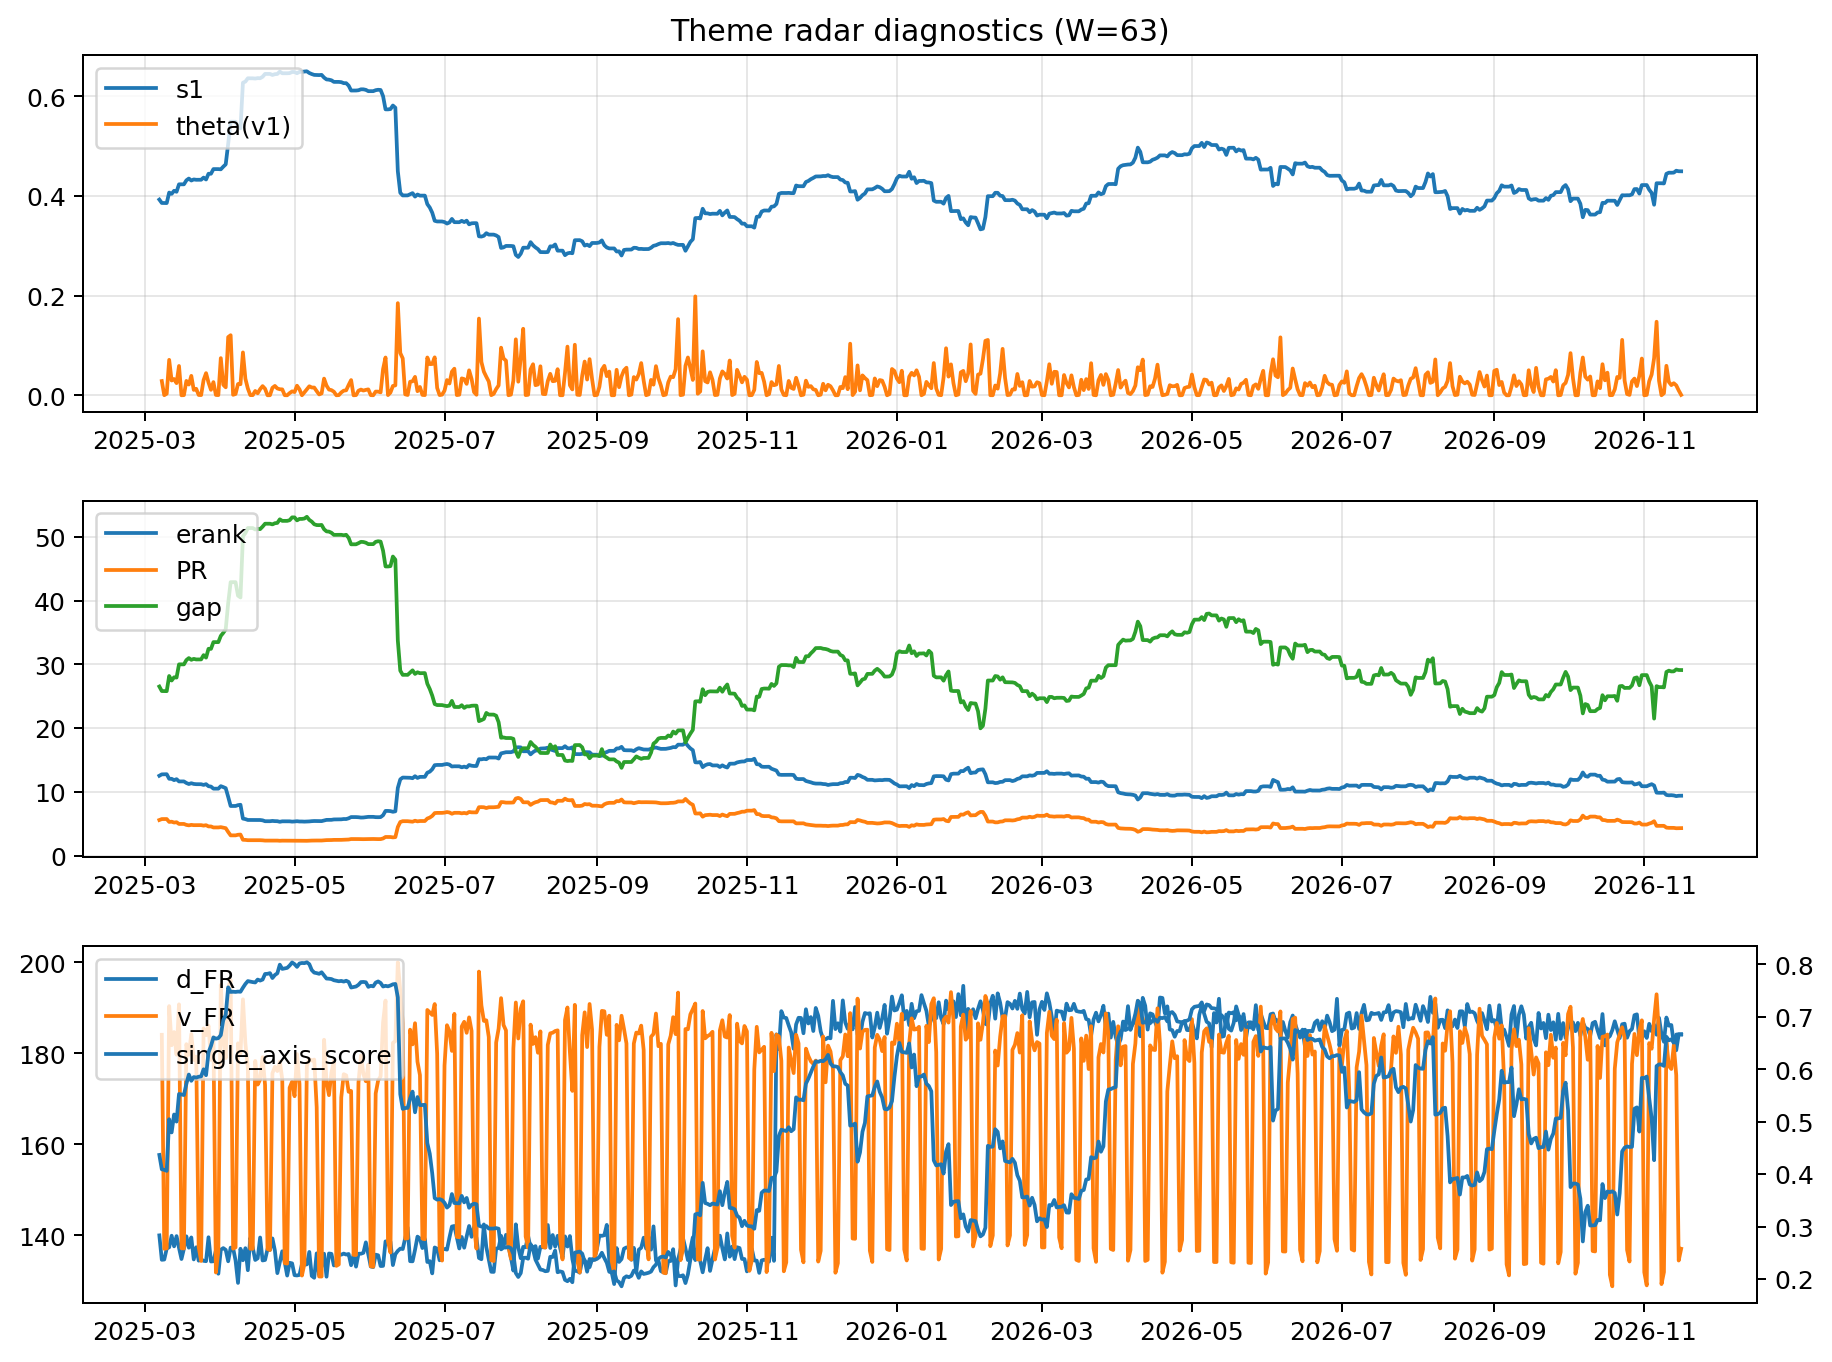
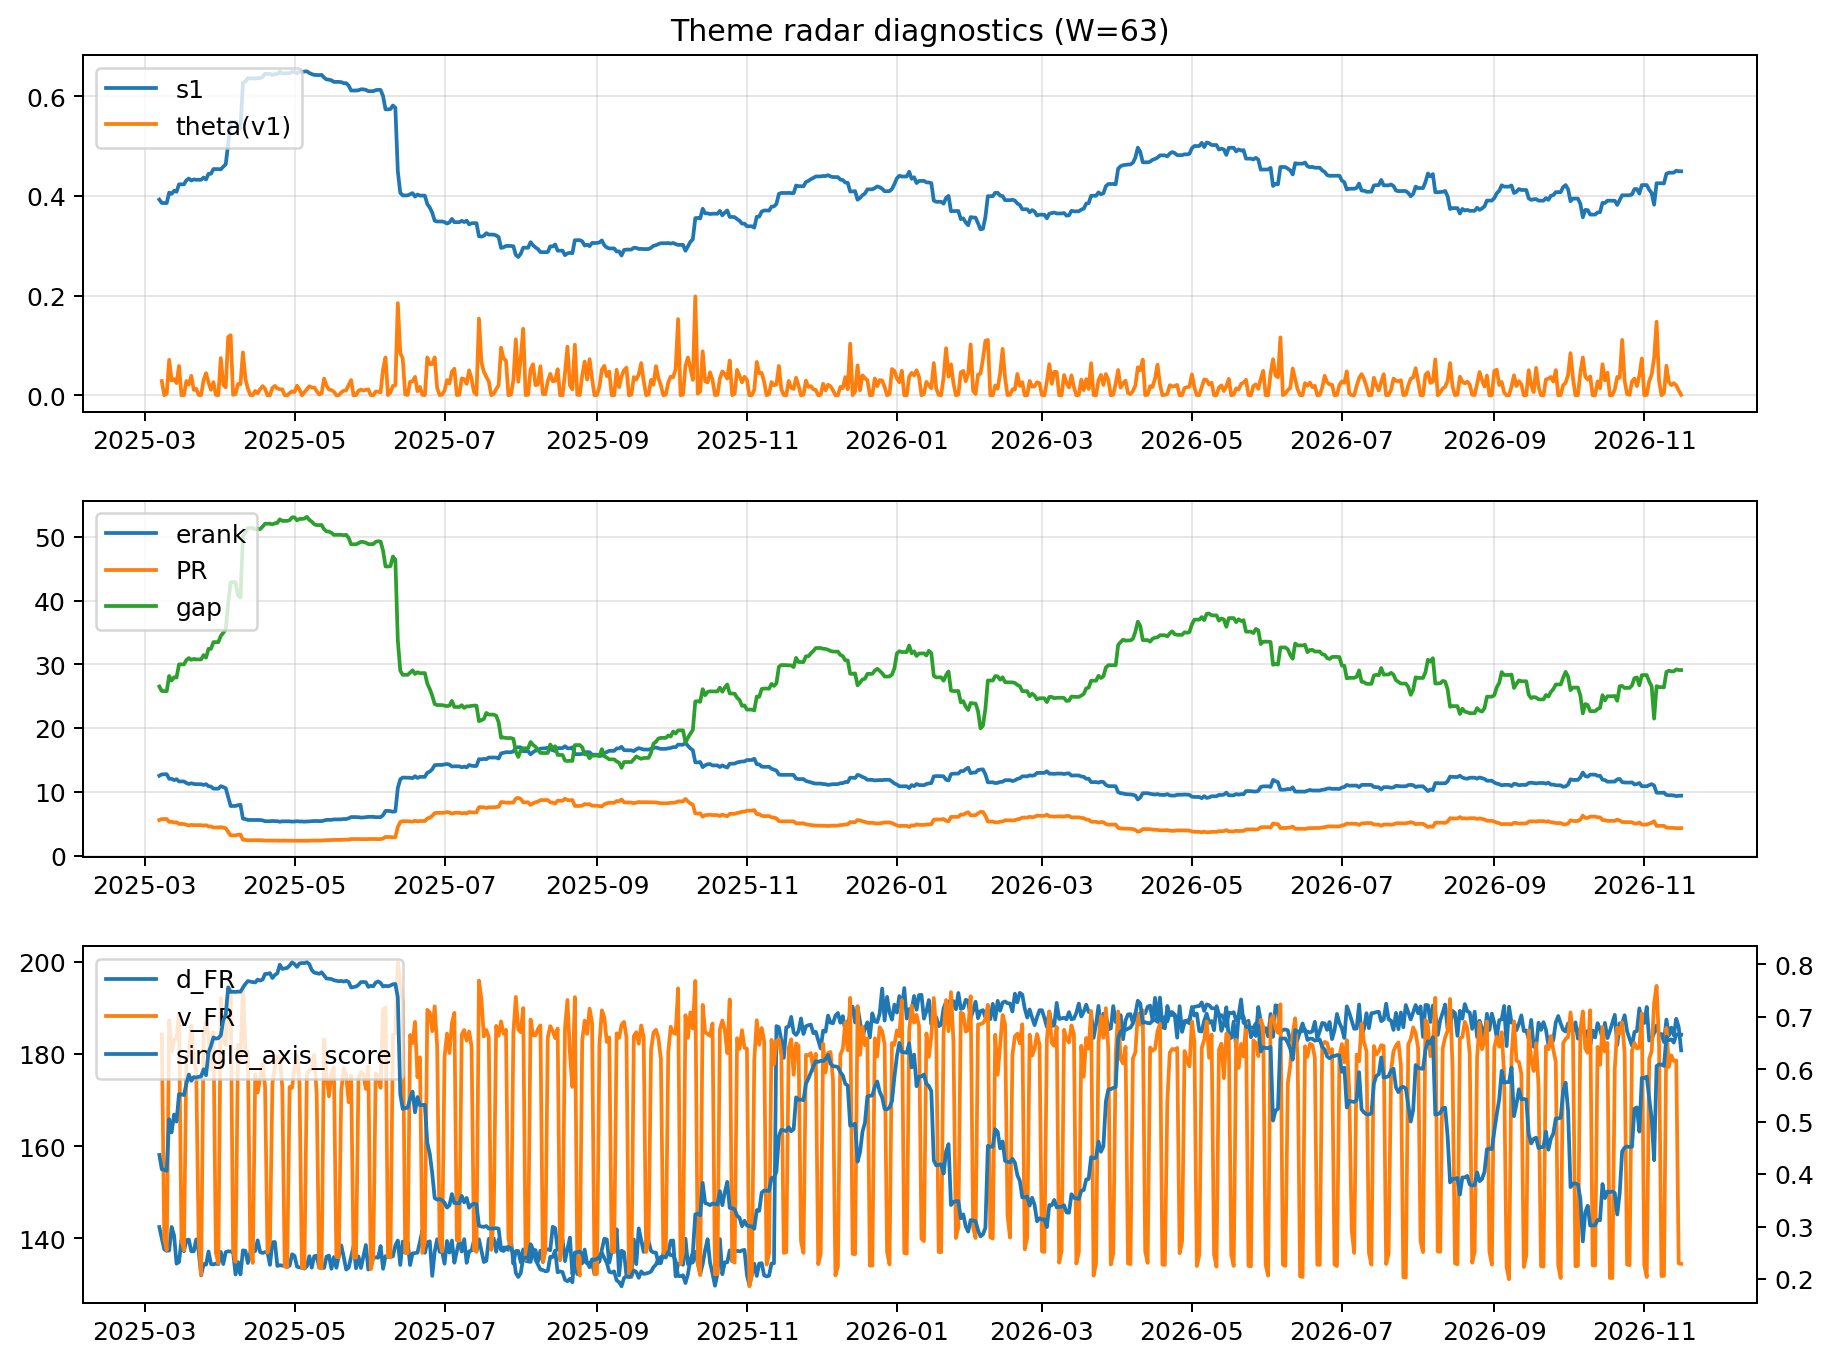
log: 2026-11-16 | sha256:1fccdb4b9e052f2ad712959671bac33f2dda15274715ce681d704cf9612c82fb

diff --git a/logs/2026-11-16.md b/logs/2026-11-16.md
@@ -3,43 +3,43 @@
 ![diagnostic W63](../assets/diagnostic/2026-11-16_W63.png)
 
 ## Leaders (v1) — W=63
-- **Nuclear_Uranium** (0.0846609562730994)
-- Semis (0.0728606609942714)
-- Genomics_Bio (0.0600351053870628)
+- **Nuclear_Uranium** (0.0846609558318685)
+- Semis (0.0728606600901705)
+- Genomics_Bio (0.0600351059429402)
 
 ## Challengers — W=63
-**v2:** Rates (0.0992291897089218), Metals (0.0749344984166271), Semis (0.0679664411971099)
-**v3:** MegaCap_AI (0.0818250859088636), Crypto (0.0795046115018373), Rates (0.0761901589716158)
+**v2:** Rates (0.099229037567165), Metals (0.0749345394594459), Semis (0.0679664562301577)
+**v3:** MegaCap_AI (0.0818250722937275), Crypto (0.079504671658838), Rates (0.0761906476063848)
 
 ## Migration (20D slope) — W=63
 **Top risers:**
-- axis_Genomics_Bio: 0.0008060742077059
-- axis_Software_Cloud: 0.0004333743814465
-- axis_Cyber: 0.0003864467015739
-- axis_Drones_Autonomy: 0.0003621812130722
-- axis_Defense: 0.0003086374333753
-- axis_Semis: 0.0002553561064155
-- axis_Nuclear_Uranium: 0.0002430550882775
-- axis_Sector_Fin: 0.0002300339379297
-- axis_Sector_Comm: 0.0001661995705224
-- axis_Sector_Materials: 0.0001641389653078
+- axis_Genomics_Bio: 0.0008060757850602
+- axis_Software_Cloud: 0.000433375148124
+- axis_Cyber: 0.0003864473300354
+- axis_Drones_Autonomy: 0.0003621815811238
+- axis_Defense: 0.0003086376957887
+- axis_Semis: 0.0002553588119548
+- axis_Nuclear_Uranium: 0.000243057072236
+- axis_Sector_Fin: 0.0002300337087096
+- axis_Sector_Comm: 0.0001661997120103
+- axis_Sector_Materials: 0.0001641388053396
 
 **Top fallers:**
-- axis_Critical_Minerals: -0.0001545386636213
-- axis_Clean_Solar: -0.0001761811750716
-- axis_USD: -0.0001809445368533
-- axis_Credit: -0.0002247153157402
-- axis_Commodities: -0.0002477768090314
-- axis_Miners: -0.0002870706172561
-- axis_Sector_ConsStap: -0.0003041437436625
-- axis_Sector_Energy: -0.0003460745845628
-- axis_Rates: -0.0003666818015889
-- axis_Metals: -0.0010946383939698
+- axis_Critical_Minerals: -0.000154537404366
+- axis_Clean_Solar: -0.0001761808381762
+- axis_USD: -0.0001809446157011
+- axis_Credit: -0.0002247159322801
+- axis_Commodities: -0.0002477763249924
+- axis_Miners: -0.000287070106738
+- axis_Sector_ConsStap: -0.0003041433311324
+- axis_Sector_Energy: -0.0003460742264196
+- axis_Rates: -0.000366707304327
+- axis_Metals: -0.0010946377694415
 
 ## Risk line (W=63)
-- s1: 0.4493402995650366
-- theta_v1: 0.0008315760117538
-- v_FR: 137.0771009858952
+- s1: 0.4493403002770312
+- theta_v1: 0.0008315760674268
+- v_FR: 134.44333819068444
 - single_axis_score: 0.6658064516129032
 
 ## Interpretation
@@ -48,7 +48,7 @@
 - Action: Tomorrow watchlist: Genomics_Bio, Software_Cloud, Cyber, Drones_Autonomy, Defense + v2_top1=Rates
 - Action: Hedge note: normal correlation stability.
 
-- Percentiles (W=63 history): vfr_pct=0.20, theta_pct=0.21, s1_pct=0.75, score_pct=0.78.
+- Percentiles (W=63 history): vfr_pct=0.12, theta_pct=0.21, s1_pct=0.75, score_pct=0.78.
 
 ---
[2 lines of base64/hex data omitted]
